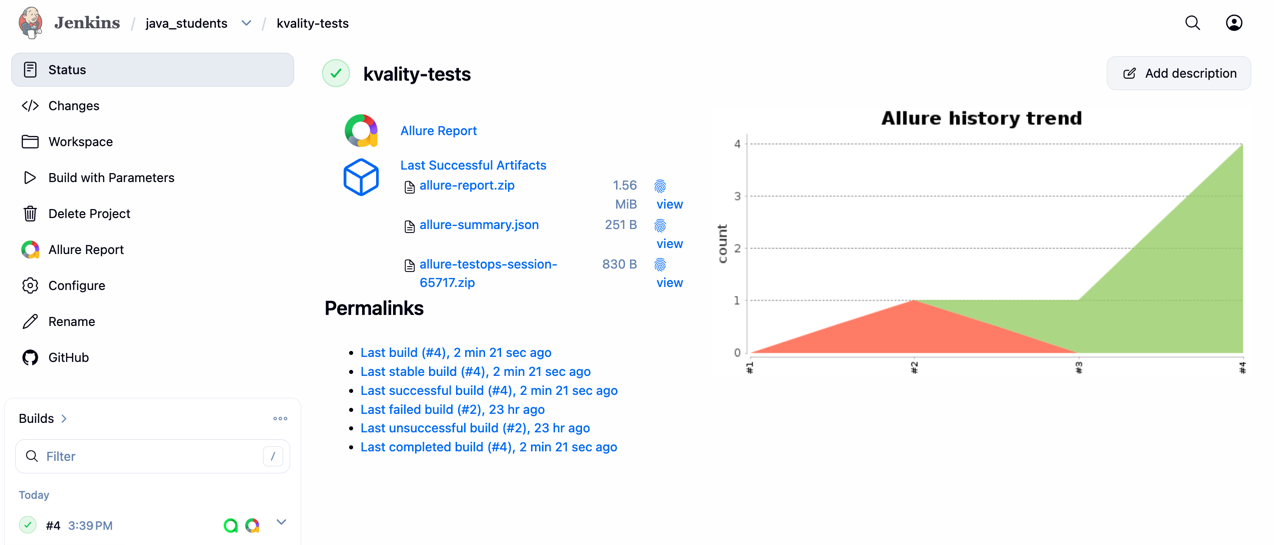
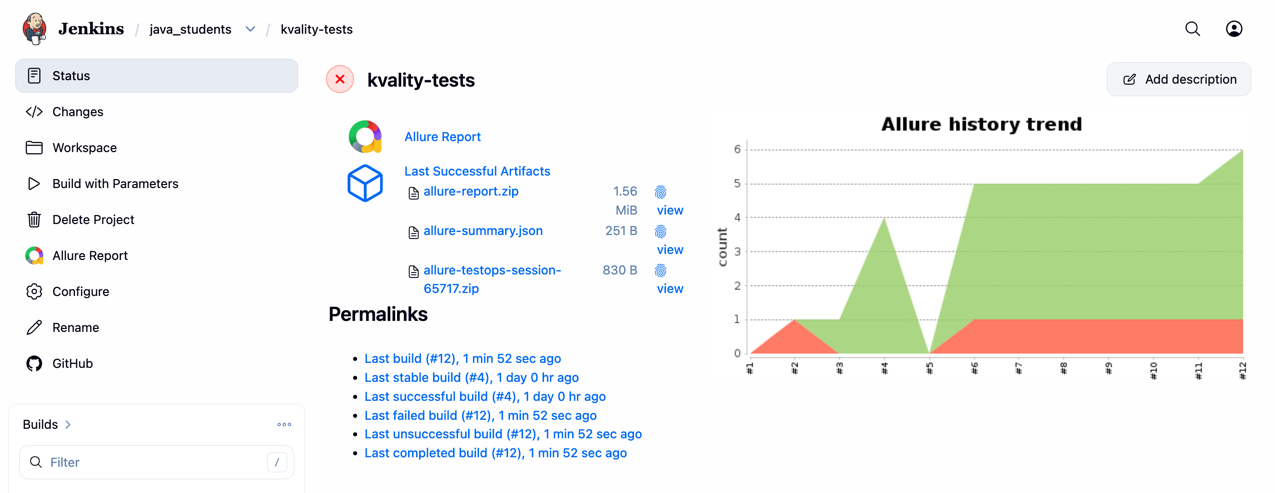
Update README screenshots and links to build #12
Refresh Jenkins, Allure, TestOps, Jira and Telegram screenshots, the Selenoid
gif, the link to the last Jenkins Allure report and the TestOps launch link,
and add the next-visitor test to the examples list.

diff --git a/README.md b/README.md
@@ -32,6 +32,7 @@
 - ✓ _Поиск по несуществующему значению показывает заглушку «Заявки не найдены»_
 - ✓ _Клик по посетителю в списке открывает его карточку_
 - ✓ _Фильтр «Устройство: Компьютер» оставляет в списке только посетителей с компьютера_
+- ✓ _Кнопка «Следующий посетитель» открывает карточку следующего посетителя из списка_
 
 ---
 
@@ -80,7 +81,7 @@ clean test
 
 ---
 
-[Отчёт последней сборки в Jenkins](https://jenkins.qa.guru/view/java_students/job/kvality-tests/allure/)
+[Отчёт последней сборки в Jenkins](https://jenkins.qa.guru/view/java_students/job/kvality-tests/12/allure/)
 
 ### Основная страница отчёта
 
@@ -102,7 +103,7 @@ clean test
 
 ---
 
-[Запуск тестов в Allure TestOps](https://allure.qa.guru/launch/57520)
+[Запуск тестов в Allure TestOps](https://allure.qa.guru/launch/57546)
 
 ### Allure TestOps Dashboard
 
